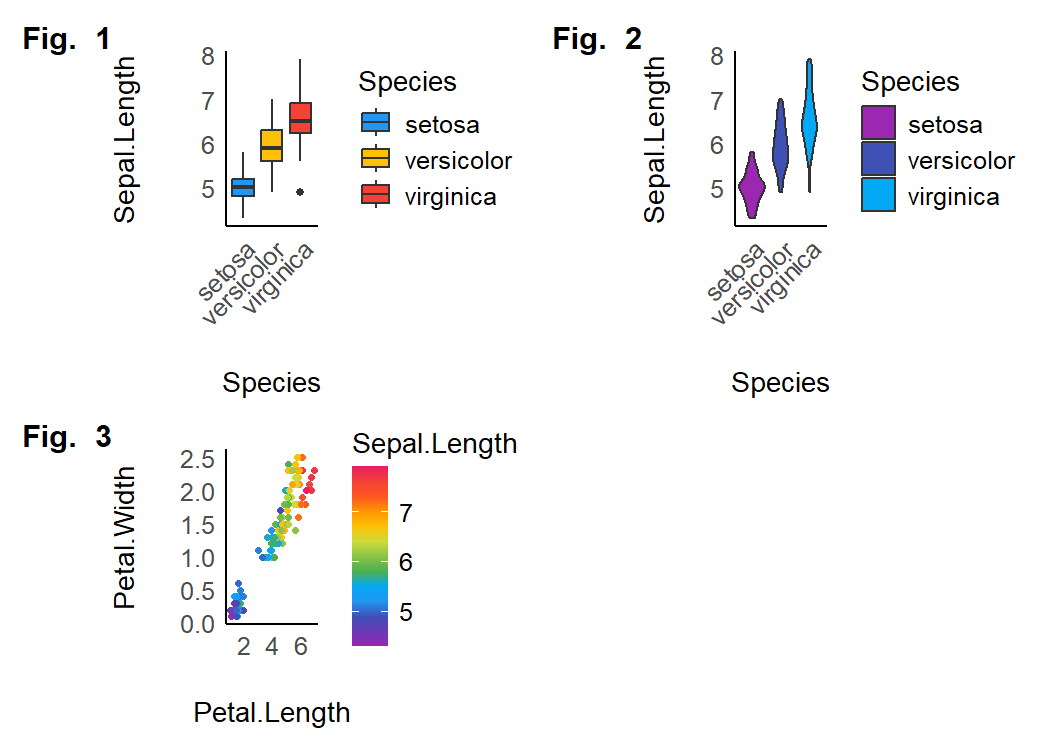
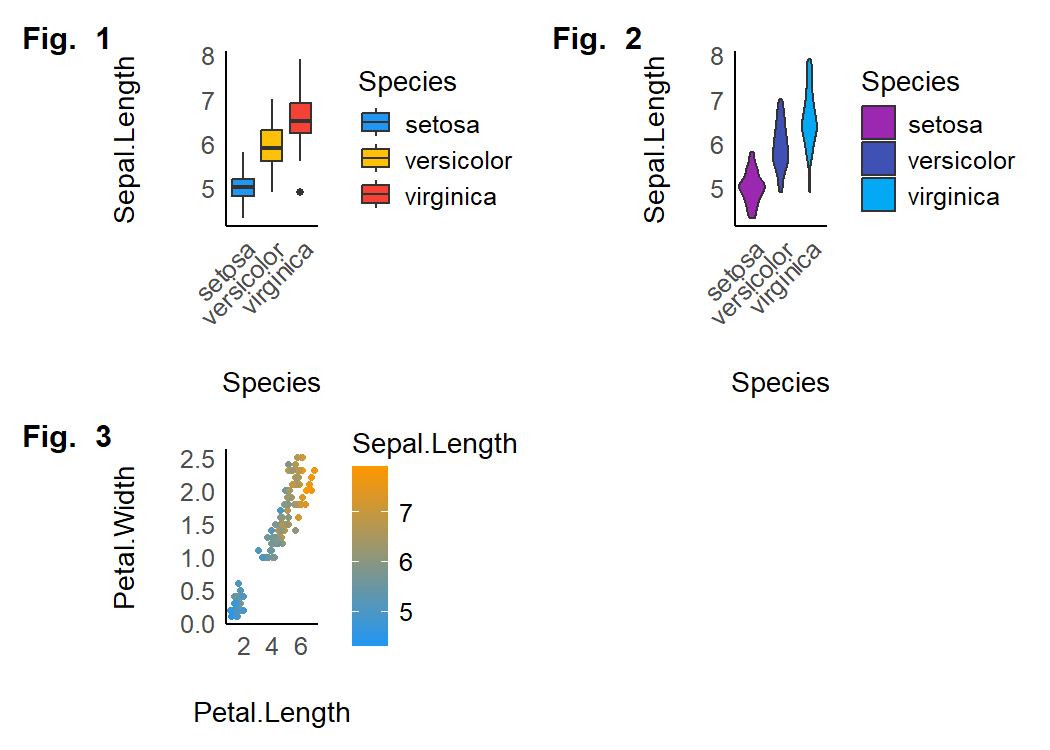
Reduce usage of pipes in the docs and tests (#389)
* Reduce usage of pipes in the docs and tests
Fixes #276

* styler /whitespace

Changed region(s): [[0.3352, 0.6133, 0.3962, 0.8587], [0.2438, 0.6133, 0.3048, 0.7667], [0.2133, 0.7667, 0.2438, 0.828]]

diff --git a/README.md b/README.md
@@ -325,7 +325,7 @@ p2 <- ggplot(iris, aes(x = Species, y = Sepal.Length, fill = Species)) +
 p3 <- ggplot(iris, aes(x = Petal.Length, y = Petal.Width, color = Sepal.Length)) +
   geom_point2() +
   theme_modern() +
-  scale_color_material_c(palette = "rainbow")
+  scale_color_material(discrete = FALSE)
 ```
 
 ## Multiple plots
@@ -388,16 +388,25 @@ ggplot(iris, aes(x = Species, y = Sepal.Length, fill = Species)) +
 ## Radar chart (Spider plot)
 
 ``` r
-library(poorman)
 library(datawizard)
 
 # prepare the data in tidy format
-data <- iris %>%
-  group_by(Species) %>%
-  summarise(across(everything(), mean)) %>%
-  reshape_longer(c("Sepal.Length", "Sepal.Width", "Petal.Length", "Petal.Width"))
+  data <- iris |>
+    datawizard::data_group("Species") |>
+    datawizard::data_summary(
+      Sepal.Length = mean(Sepal.Length),
+      Sepal.Width = mean(Sepal.Width),
+      Petal.Length = mean(Petal.Length),
+      Petal.Width = mean(Petal.Width)
+    ) |>
+    datawizard::reshape_longer(c(
+      "Sepal.Length",
+      "Sepal.Width",
+      "Petal.Length",
+      "Petal.Width"
+    ))
 
-data %>%
+data |>
   ggplot(aes(
     x = name,
     y = value,
